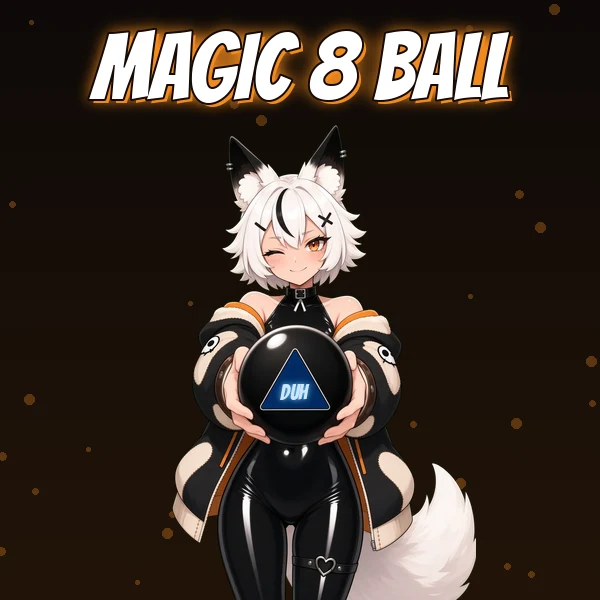
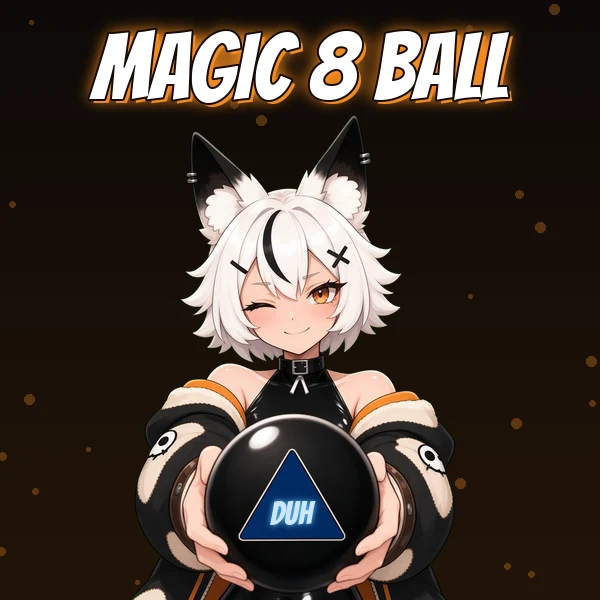
8 Ball card: zoom in on Nines, ball at bottom

diff --git a/apps.html b/apps.html
@@ -77,7 +77,7 @@ details.note summary{cursor:pointer;font-weight:700;color:var(--o)}details.note 
 <li>If Defender quarantines it: <b>Windows Security</b> &gt; Virus &amp; threat protection &gt; <b>Protection history</b> &gt; select the item &gt; Actions &gt; <b>Allow on device</b>. Optional: Manage settings &gt; Exclusions &gt; Add an exclusion &gt; Folder &gt; pick the RogerPet folder.</li>
 </ol></details>
 <details class="note"><summary>Mac blocked it?</summary><p>Mac builds are unsigned and untested, so macOS may say "Malware Blocked" or that the app is damaged.</p><ol><li>Unzip the download.</li><li><b>Apple Silicon:</b> open Terminal in that folder and run <code>xattr -dr com.apple.quarantine RogerPet.app</code></li><li>Then run <code>codesign --force --deep --sign - RogerPet.app</code> and open him.</li><li><b>Intel:</b> right-click the app &gt; <b>Open</b> &gt; <b>Open</b>.</li></ol></details><p class="fn">* Roger isn't signed by Apple or Microsoft, so your computer may flag him as a threat (on Mac: "Malware Blocked"). He's safe, just unsigned. All the code is on GitHub and inspectable in the package. <a href="https://github.com/kitsuranines/pet-roger" target="_blank" rel="noopener" style="color:var(--o);text-decoration:underline">Code Here</a></p></div></article>
-<article class="app"><div class="pic"><img src="img/app-8ball.webp?v=5" alt="Magic 8 Ball: Nines winking and holding her black Magic 8 Ball on a dark orange-glow background"></div>
+<article class="app"><div class="pic"><img src="img/app-8ball.webp?v=6" alt="Magic 8 Ball: Nines winking and holding her black Magic 8 Ball on a dark orange-glow background"></div>
 <div><h3>Magic 8 Ball</h3><p>A magic 8 ball shaken by Nines. Ask the fox a question and she'll shake out your answer.</p>
 <a class="btn o" href="8ball/">&#9654; Open</a><p class="note">Runs in your browser, on phone or desktop.</p></div></article>
 <article class="app"><div class="pic"><img src="img/app-pet.webp?v=4" alt="Pet the Fox: Nines and Roger side by side in glowing panels with their pet counters and orange hearts" loading="lazy"></div>
